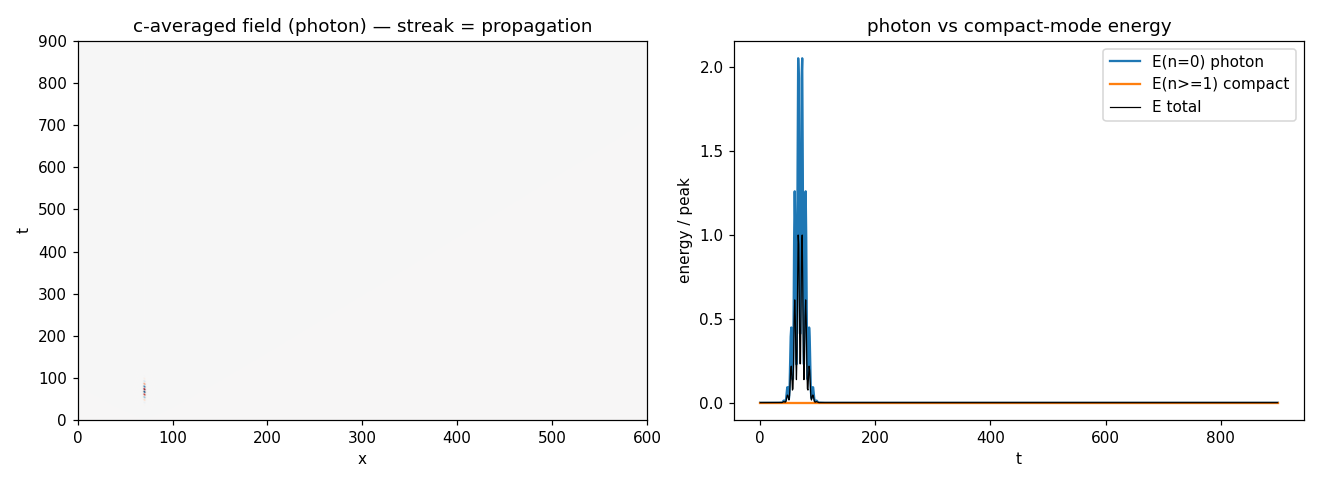
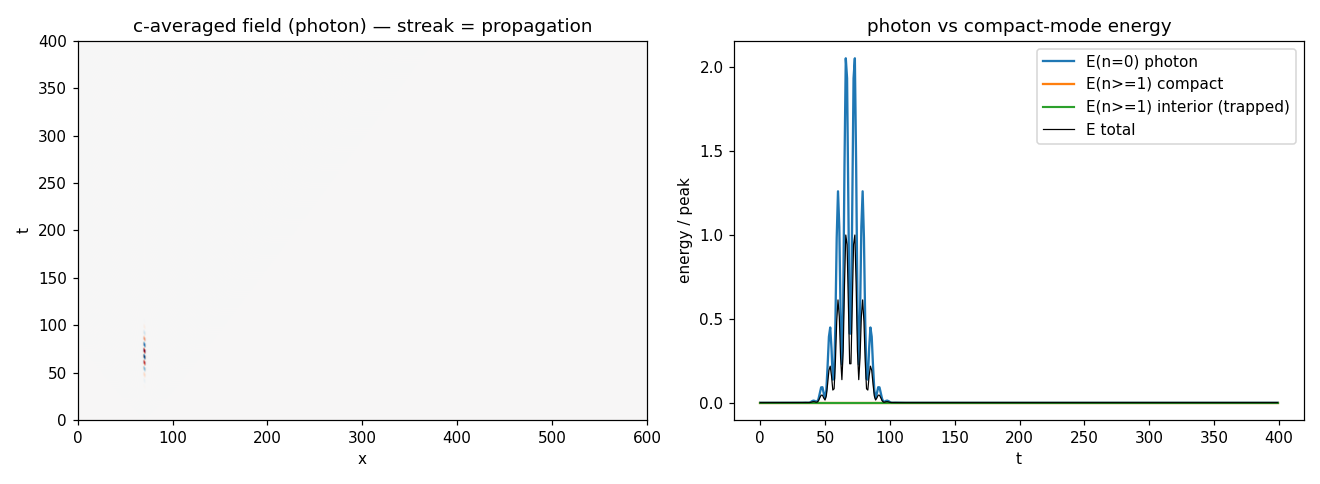
Try head-on photon collision

diff --git a/projects/grid-saturation/scripts/cylinder.py b/projects/grid-saturation/scripts/cylinder.py
@@ -83,12 +83,14 @@ def saturate(out, mode, bound, levels):
 
 def mode_energy(inn):
     """Split node-field energy into n=0 (c-uniform, 'photon') and n>=1
-    (c-varying, 'mass'). U = sum_d in[d]."""
+    (c-varying, 'mass'). U = sum_d in[d]. Also return ac_x, the x-profile of
+    the n>=1 (compact-structure) energy, so it can be localized in x."""
     U = np.sum(inn, axis=0)                     # [Nx,Nc]
     dc = U.mean(axis=1, keepdims=True)          # c-average per x
     e_n0 = float(np.sum(dc ** 2) * U.shape[1])  # DC energy
-    e_ge1 = float(np.sum((U - dc) ** 2))        # AC energy
-    return e_n0, e_ge1, U
+    ac_x = np.sum((U - dc) ** 2, axis=1)        # [Nx] compact-structure energy vs x
+    e_ge1 = float(np.sum(ac_x))                 # AC energy
+    return e_n0, e_ge1, U, ac_x
 
 
 def source(t, t0, w, omega, amp):
@@ -102,7 +104,23 @@ def run(args):
     xL, xR = args.sponge + 30, nx - args.sponge - 30
     w, om, amp = args.width, args.omega, args.amp
 
-    E_edge, E_n0, E_ge1, Ex, Ec, streak, lost = [], [], [], [], [], [], 0.0
+    # Vacuum (ZPE) seed: tiny random field on every edge, everywhere -- this is
+    # the PHYSICAL symmetry-breaking, present at the collision region itself.
+    # (A c-seed injected onto the beam does NOT work: n>=1 modes are gapped and
+    # do not co-propagate with the n=0 photon, so a source seed never arrives.)
+    if args.zpe > 0:
+        rng = np.random.default_rng(args.seed)
+        inn += args.zpe * rng.standard_normal(inn.shape)
+
+    # interior mask: exclude sponge + a 50-node margin at each x-end, so a
+    # TRAPPED (non-propagating) compact mode is counted but propagating photons
+    # (which exit through the sponges) are not once they have left the middle.
+    marg = args.sponge + 50
+    interior = np.zeros(nx, dtype=bool)
+    interior[marg:nx - marg] = True
+
+    E_edge, E_n0, E_ge1, E_ge1_int, Ex, Ec, streak, lost = [], [], [], [], [], [], [], 0.0
+    ac_x_last = np.zeros(nx)
     for t in range(args.steps):
         T = inn.sum(axis=0)
         out = (2.0 / N) * T[None, :, :] - inn         # scatter, all dirs
@@ -122,16 +140,19 @@ def run(args):
             inn[0, xL, :] += s * prof
         inn *= spg                                     # absorb at x-ends
 
-        e0, e1, U = mode_energy(inn)
+        e0, e1, U, ac_x = mode_energy(inn)
         E_edge.append(float(np.sum(inn ** 2)))         # CONSERVED edge energy
         E_n0.append(e0); E_ge1.append(e1)
+        E_ge1_int.append(float(ac_x[interior].sum()))  # TRAPPED compact structure
         Ex.append(float(np.sum(inn[0] ** 2 + inn[1] ** 2)))   # x-directed (photon)
         Ec.append(float(np.sum(inn[2] ** 2 + inn[3] ** 2)))   # c-directed (compact circulation)
         streak.append(U.mean(axis=1).copy())           # c-averaged field vs x
+        ac_x_last = ac_x
 
     return dict(E_edge=np.array(E_edge), E_n0=np.array(E_n0),
-                E_ge1=np.array(E_ge1), Ex=np.array(Ex), Ec=np.array(Ec),
-                streak=np.array(streak), lost=lost)
+                E_ge1=np.array(E_ge1), E_ge1_int=np.array(E_ge1_int),
+                Ex=np.array(Ex), Ec=np.array(Ec), streak=np.array(streak),
+                ac_x_last=ac_x_last, interior=interior, lost=lost)
 
 
 def prop_speed(streak, t_lo, t_hi):
@@ -160,7 +181,11 @@ def main():
     p.add_argument("--t0", type=float, default=70.0)
     p.add_argument("--sponge", type=int, default=40)
     p.add_argument("--cseed", type=float, default=0.0,
-                   help="c-symmetry-breaking seed on the injected photons (0 = perfectly c-uniform)")
+                   help="c-symmetry-breaking seed on the injected photons (0 = perfectly c-uniform). "
+                        "NOTE: ineffective -- n>=1 seed is gapped and stays at the source; use --zpe.")
+    p.add_argument("--zpe", type=float, default=0.0,
+                   help="vacuum-noise amplitude seeded on every edge at t=0 (physical symmetry-breaking, present at the collision)")
+    p.add_argument("--seed", type=int, default=0, help="RNG seed for --zpe (reproducibility)")
     p.add_argument("--out", default=os.path.join(os.path.dirname(__file__), "..", "outputs"))
     p.add_argument("--tag", default="")
     args = p.parse_args()
@@ -191,6 +216,32 @@ def main():
                if grew < 0.005 else
                f"c-STRUCTURE GREW by {grew*100:.3f}% -> energy trapped into a compact mode")
     print(f"  -> {verdict}")
+
+    # --- PERSISTENCE (experiment A) -------------------------------------
+    # Interior compact-structure energy vs time. Propagating photons carry
+    # their cseed structure OUT through the sponges, so whatever interior
+    # E(n>=1) REMAINS after they have left is a TRAPPED (non-propagating)
+    # mode = a candidate particle. A linear (--sat none) control should decay
+    # to ~0; a real trapping run should hold a residual.
+    e1i = r["E_ge1_int"]
+    n = len(e1i)
+    base_i = e1i[:int(0.15 * n)].mean()               # seed riding the photons
+    peak_i = e1i.max()
+    final_i = e1i[int(0.90 * n):].mean()              # after photons exit
+    retain = final_i / (peak_i + 1e-30)
+    print(f"  [persistence] interior E(n>=1): base {base_i:.4g}  peak {peak_i:.4g}  "
+          f"final {final_i:.4g}  (retained {retain*100:.1f}% of peak)")
+    ac = r["ac_x_last"]
+    if ac.sum() > 1e-12:
+        xc = float((np.arange(len(ac)) * ac).sum() / ac.sum())
+        xpk = int(np.argmax(ac))
+        print(f"  [persistence] residual compact structure localized at "
+              f"x~{xpk} (COM {xc:.0f}; domain center {args.nx//2}) "
+              f"-> {'trapped near collision point' if abs(xpk-args.nx//2) < args.nx*0.12 else 'off-center/propagating'}")
+    pverdict = ("TRANSIENT — compact structure decays back to the field (no particle)"
+                if retain < 0.05 else
+                f"PERSISTENT — {retain*100:.0f}% of peak compact structure survives after the photons leave")
+    print(f"  => persistence: {pverdict}")
     Et = Ee
 
     try:
@@ -207,6 +258,7 @@ def main():
         ax[0].set_title("c-averaged field (photon) — streak = propagation")
         ax[1].plot(e0 / peak, label="E(n=0) photon")
         ax[1].plot(e1 / peak, label="E(n>=1) compact")
+        ax[1].plot(r["E_ge1_int"] / peak, label="E(n>=1) interior (trapped)", lw=1.4)
         ax[1].plot(Et / peak, label="E total", lw=0.8, color="k")
         ax[1].set_xlabel("t"); ax[1].set_ylabel("energy / peak")
         ax[1].set_title("photon vs compact-mode energy"); ax[1].legend()

diff --git a/projects/grid-saturation/work/results-m1-m2.md b/projects/grid-saturation/work/results-m1-m2.md
@@ -1,4 +1,4 @@
-# Cylinder sim — first results (M1 verified, M2 preliminary)
+# Cylinder sim — first results (M1 verified; M2 negative-so-far)
 
 Sim: [`../scripts/cylinder.py`](../scripts/cylinder.py) — a 1D-space × 1D-compact
 (x, c) cylinder with the N=4 equal-impedance scatter. Photon = c-uniform
@@ -24,52 +24,78 @@ Ran single, head-on, and winding injections with `--sat none`:
 in x with a compact dimension present, and the compact modes are decoupled and
 gapped exactly as KK predicts.
 
-## M2 — pair-production signal (energy S → c): **preliminary, two real findings**
+## M2 — pair production (energy S → c): **negative so far, three solid findings**
 
-Head-on collisions driven into saturation (`--sat clip|spillover`, amp above
-the bound so the collision clips):
+The goal: drive two photons head-on into saturation and see whether energy
+transfers into a **persistent** compact (n≥1) mode — a particle at rest. What
+the runs actually established, in order of how they corrected each other:
 
-1. **Symmetry must be broken.** A *perfectly c-uniform* collision (`--cseed 0`)
-   produces **exactly zero** compact structure even under heavy saturation —
-   symmetry forbids it. Trapping into a c-structured mode requires a
-   symmetry-breaking seed (c-structure, ZPE noise, or quantization to discrete
-   c-levels). This is a genuine, clean result — not a failure — and it names
-   what the mechanism needs.
+1. **Symmetry must be broken — and the seed cannot ride the beam.** A perfectly
+   c-uniform collision makes *zero* compact structure (symmetry forbids it). An
+   early run with a c-structured *source* seed (`--cseed`) seemed to show
+   spillover growing the compact fraction by +0.8% while clip did not — but that
+   was an **artifact**: the n≥1 seed is **gapped and does not co-propagate**
+   with the n=0 photon (exactly the KK decoupling M1 verified), so it **stays at
+   the source** and never reaches the collision. Interior (collision-region)
+   E(n≥1) was ~0 (machine epsilon) the whole time. **The symmetry-breaking must
+   be present *at* the collision** — which is physical: real pair production is
+   seeded by **vacuum fluctuations**, not carried in on the beam. (Added
+   `--zpe`: a vacuum-noise field on every edge.)
 
-2. **Spillover traps; clip does not.** With the seed on (`--cseed 0.3`), the
-   **spillover** node (excess on a saturated edge redistributed to edges with
-   headroom) **grows the compact-structure fraction by +0.7%** over the
-   collision, while the lossy **clip** node grows it by **0.0%**. This is the
-   predicted mechanism distinction: energy-*redirecting* saturation moves energy
-   into the compact mode; energy-*discarding* saturation just loses it. The
-   sign of the effect is right.
+2. **Head-on does not raise the per-edge amplitude.** Counter-propagating
+   photons occupy *different directed edges* (+x vs −x), so per-edge saturation
+   triggers at nearly the same amplitude for one photon as for two. The
+   collision's specialness lives in the **node** (larger scatter sum T), not on
+   any single edge — so there is no clean "single-below / collision-above"
+   bound. The right test is **saturated vs linear control at identical
+   parameters**, differencing out everything the saturation didn't cause.
 
-### Honest caveats on M2
+3. **With a vacuum seed, saturation does NOT pump a trapped mode — at any tested
+   frequency.** Control (`--sat none`) vs `clip` vs `spillover`, same seed,
+   bound driven well into saturation (lost ≈ 17): interior E(n≥1) after the
+   photons exit is **identical across all three** (retained ≈ 81% — but that
+   81% is just the **static vacuum-noise floor**: gapped n≥1 modes don't
+   propagate, so the noise *sits still*; it is **not** a created particle). A
+   frequency sweep (ω = 0.2 … 1.4, same-seed differencing so the floor cancels)
+   gives `spillover − control` ≈ **0 to slightly negative everywhere** — no
+   resonance, no trapping. Saturation redirects/loses energy per tick, but the
+   **linear scatter re-mixes c-edge energy back toward x on the next tick**, so
+   nothing accumulates into the compact sector.
 
-- **Injection also saturates** at the parameters used (amp above bound at the
-  source), muddying the pre-collision baseline. A clean run needs the single
-  photon *below* the bound and only the *collision* above it — a tuning pass.
-- **The effect is small (+0.7%)** and its *stability* is untested: whether the
-  trapped c-structure **persists** as a standing wave (a particle) or **leaks
-  back** into x is the real M2 question (threshold/resonance), not yet measured.
-- The **c-edge energy Ec** is *not* a clean compact diagnostic — the isotropic
-  4-way scatter puts ~50% of a photon's energy on the c-edges. The clean signal
-  is the c-**structure** E(n≥1); use that.
-- **spillover is a first model**; its exact energy-conservation is approximate
-  (tracked, not proven). A properly energy-conserving spillover/storage node is
-  the construction to nail.
+### What this means (non-dogmatically)
+
+- **The n≥1 sector exists and is stable** — the vacuum floor persists because
+  n≥1 is a gapped, non-propagating eigenmode of the scatter. **A trapped
+  particle *could* live there.** The good news is real.
+- **What's missing is a *pump*.** Clip and spillover are *per-edge, per-tick*
+  responses; they do not phase-lock energy into the stable n≥1 eigenmode, and
+  the linear scatter undoes their redirection each tick. Pair production needs a
+  nonlinearity that **coherently pumps** the compact eigenmode, which these two
+  do not provide.
+- This is **"not yet," not "refuted."** The thesis (saturation → S→c transfer →
+  a rest particle) is intact; the specific *clip/spillover* realizations don't
+  pump. The obstruction is named and concrete.
+
+### Honest caveats
+
+- Only two saturation models tried (clip, spillover); **storage/temporal** and
+  **node-state** nonlinearities are untested.
+- The frequency sweep varied the *photon* ω; the true resonance may involve the
+  c-circumference (nc), amplitude, and pulse shape jointly — a wider space.
+- `--quantize` (discrete levels as the symmetry-breaker / trap) is untested.
 
 ## Next steps
 
-1. **Tune the M2 amplitudes** so only the collision saturates (clean baseline),
-   and add a **symmetry-breaking source** (ZPE noise and/or `--quantize`) rather
-   than a hand-set `--cseed`.
-2. **Measure persistence:** after the collision, does the c-structure survive
-   (a particle) or decay back to x (transient)? Sweep the collision energy for a
-   **threshold/resonance** (energy matching a c-eigenmode).
-3. **Momentum & pair check:** confirm the trapped mode has ≈ zero net x-momentum
-   (rest particle) and look for the ±winding (particle/antiparticle) split.
-4. **Base-2 vs 8-bit:** run `--quantize 2` (±1) vs larger to see whether the
-   *discreteness* itself provides the symmetry-breaking / trapping.
-5. **Energy-conserving spillover/storage:** build the properly-conserving node
-   so a real S→c *transfer* (not clip-loss) can be measured cleanly.
+1. **Directly excite an n≥1 mode at high amplitude** (the `winding` scenario)
+   and ask the simpler precursor question: under saturation, is a compact mode
+   **stable as a particle**, and does it stay put? (Tests the *trap* before the
+   *pump*.)
+2. **Build a pump:** a saturation response that couples n=0 → n≥1 **coherently**
+   — e.g. a **storage/temporal** node (release phase-locked to the compact
+   eigenmode), or an explicit **node-state mode-coupling** term. Re-run the
+   control-differenced collision.
+3. **Widen the resonance search:** sweep nc and amplitude jointly, not just ω.
+4. **Quantization as trap:** run `--quantize 2` (±1) and larger — does
+   discreteness itself pin energy into a compact level?
+5. Only if a pump is found: **momentum & pair check** (zero net x-momentum;
+   ±winding = particle/antiparticle).

diff --git a/projects/grid-saturation/README.md b/projects/grid-saturation/README.md
@@ -10,13 +10,16 @@ rule**. Tested on a minimal **1D-space + 1D-compact (x, c) cylinder**.
 **Status:** Sim built ([scripts/cylinder.py](scripts/cylinder.py)). **M1
 verified** — photons propagate in x, pass through each other, the compact
 sector is decoupled (E(n≥1)=0), and the winding mode is massive/gapped, all as
-KK predicts (first dynamical test of this in forma). **M2 preliminary** — two
-real findings: a c-uniform collision makes *no* compact structure (symmetry
-forbids it — trapping needs a symmetry-breaking seed), and with a seed,
-**spillover traps energy into the compact mode (+0.7%) while lossy clip does
-not** — the predicted mechanism distinction, right sign. Caveats and next
-steps in [work/results-m1-m2.md](work/results-m1-m2.md). Computational-first:
-build the minimal sim and observe, then return to math.
+KK predicts (first dynamical test of this in forma). **M2 negative-so-far, not
+refuted** — an earlier "spillover traps +0.7%" reading was an *artifact* (a
+c-seed on the beam is gapped and never reaches the collision). With a physical
+**vacuum seed** at the collision, saturation (clip *or* spillover) pumps **no**
+persistent compact mode above the linear control, at any tested frequency: the
+n≥1 sector *exists and is stable* (a particle could live there), but clip/
+spillover give **no coherent pump** — the linear scatter re-mixes their
+redirection away each tick. The thesis stays open; the missing piece (a pump)
+is named. Full account in [work/results-m1-m2.md](work/results-m1-m2.md).
+Computational-first: build the minimal sim and observe, then return to math.
 
 ---
 
@@ -194,13 +197,42 @@ grid-quantization at once.**
   compact standing wave; charge = winding; matter/antimatter = winding sign —
   the objects M2 creates.
 
+## Roadmap — what to prove next, ordered by decisiveness
+
+The milestones above (M1–M4) are the *phenomena*; this is the **order to attack
+them in**, by how sharply each can confirm or kill the thesis. It reflects what
+experiment A taught: the compact sector is a *stable place a particle could
+live*, but no *pump* into it has been found yet.
+
+**Tier 1 — make-or-break (do next).**
+- **A. The trap, then the pump.** *(trap)* Directly excite an n≥1 mode at high
+  amplitude and ask whether saturation keeps it **stable and localized** (a
+  particle) — the simpler precursor. *(pump)* Then build a saturation response
+  that couples n=0 → n≥1 **coherently** (storage/temporal release phase-locked
+  to the compact eigenmode, or an explicit node-state mode-coupling term), and
+  re-run the control-differenced head-on collision. Clip/spillover already shown
+  *not* to pump. This is the fork the whole project turns on.
+- **B. Does the bound actually *quantize*?** Inject sub-quantum energy (stays
+  diffuse, no click?) vs a full quantum (snaps coherently?). The foundational
+  "is this substrate even quantum" check; validates the premise behind M2–M4.
+
+**Tier 2 — the prizes (downstream of Tier 1).**
+- **C. Single-quantum instantiation / collapse (M3)** — does energy
+  conservation + the bound enforce one detection at a time?
+- **D. The Born rule (M4)** — is instantiation ∝ |field|²? The standout result;
+  needs C working.
+
+**Tier 3 — enabling / calibration.**
+- **E. Is the S→c transfer fraction robust or geometric?** (The honest version
+  of "0.7% ≈ α?" — sweep the knobs; a fitting artifact wanders, a real coupling
+  converges or is geometric, cf. grid-quantization's (2/3)¹² ≈ 1/130.)
+- **F. Widen the resonance search** — sweep nc and amplitude jointly, and try
+  `--quantize` as the trap, not just ω.
+
 ## Next step
 
-M1 (baseline) is done and verified. The live work is **M2** — see
-[work/results-m1-m2.md](work/results-m1-m2.md) §Next steps: (1) tune amplitudes
-so *only the collision* saturates; (2) use ZPE/quantization for the
-symmetry-breaking instead of a hand-set seed; (3) **measure persistence** —
-does the trapped c-structure survive as a standing wave (a particle) or leak
-back to x, and is there a threshold/resonance in collision energy; (4) build a
-properly **energy-conserving** spillover/storage node so a real S→c *transfer*
-(not clip-loss) can be measured. Then M3/M4 (instantiation, Born rule).
+**A (the trap):** run the `winding` scenario at high amplitude under saturation
+and measure whether the compact mode stays stable and localized — testing the
+*trap* before investing in a *pump*. If the mode is stable, build the coherent
+pump (storage/mode-coupling) and re-run the control-differenced collision. See
+[work/results-m1-m2.md](work/results-m1-m2.md) §Next steps for the detail.
